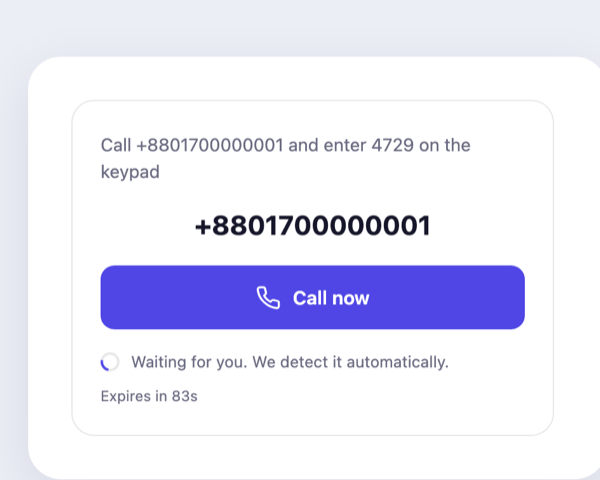
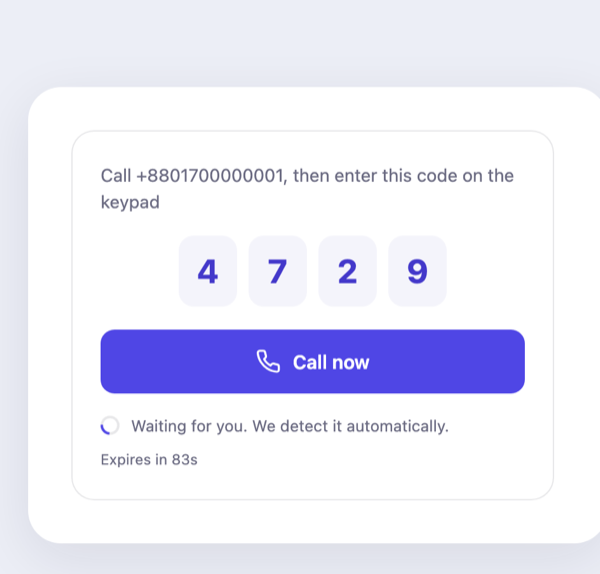
Widget: show the DTMF code in big digits; sharper screenshots (#36)
The DTMF instruction buried the code in a sentence and showed the phone
number big. Now it mirrors the SMS state: the code renders as large digit
chips with "Call <number>, then enter this code on the keypad" and a Call now
button — so the thing the user types is the hero, and the call button is the
clear next tap. Applied across all three front ends (web widget, React,
Flutter) so they stay consistent.

Also re-export the Android pairing/connected screenshots at full resolution
(they had been downscaled to 216px wide and looked blurry).

diff --git a/sdk-client-flutter/lib/src/widget.dart b/sdk-client-flutter/lib/src/widget.dart
@@ -159,9 +159,13 @@ class _CallToVerifyState extends State<CallToVerify> {
 
   Widget _instr(Instructions i) {
     final children = <Widget>[];
-    if (i.channel == 'sms') {
+    if (i.channel == 'sms' || i.channel == 'dtmf') {
       children.addAll([
-        Text('Send the code below to ${i.number}', style: const TextStyle(color: _muted)),
+        Text(
+            i.channel == 'sms'
+                ? 'Send the code below to ${i.number}'
+                : 'Call ${i.number}, then enter this code on the keypad',
+            style: const TextStyle(color: _muted)),
         const SizedBox(height: 14),
         Row(
           mainAxisAlignment: MainAxisAlignment.center,
@@ -180,7 +184,7 @@ class _CallToVerifyState extends State<CallToVerify> {
       ]);
     } else {
       children.addAll([
-        Text(i.channel == 'call' ? 'Give a quick missed call to' : 'Call and enter the code', style: const TextStyle(color: _muted)),
+        const Text('Give a quick missed call to', style: TextStyle(color: _muted)),
         const SizedBox(height: 6),
         Text(i.number, textAlign: TextAlign.center, style: const TextStyle(fontSize: 21, fontWeight: FontWeight.w700)),
       ]);

diff --git a/sdk-client-react/src/CallToVerify.tsx b/sdk-client-react/src/CallToVerify.tsx
@@ -214,8 +214,14 @@ function Instr(props: {
   }
   return (
     <>
-      <p className="ctv-action">{L.dtmfAction(instr.number, instr.code ?? "")}</p>
-      <p className="ctv-num">{instr.number}</p>
+      <p className="ctv-action">{L.dtmfAction(instr.number)}</p>
+      <div className="ctv-code">
+        {(instr.code ?? "").split("").map((d, i) => (
+          <span key={i} className="ctv-digit">
+            {d}
+          </span>
+        ))}
+      </div>
       <a className="ctv-btn" href={instr.deepLink}>
         <IconCall />
         {L.dtmfButton}

diff --git a/widget-web/src/index.ts b/widget-web/src/index.ts
@@ -167,8 +167,9 @@ function renderInstructions(root: HTMLElement, i: Instructions, L: Labels, canSw
       <div class="ctv-trust">${ICONS.shield}${escapeHtml(L.callTrust)}</div>
       ${waiting}`;
   } else {
-    root.innerHTML = `<p class="ctv-action">${escapeHtml(L.dtmfAction(i.number, i.code ?? ""))}</p>
-      <p class="ctv-num">${escapeHtml(i.number)}</p>
+    const digits = (i.code ?? "").split("").map((d) => `<span class="ctv-digit">${escapeHtml(d)}</span>`).join("");
+    root.innerHTML = `<p class="ctv-action">${escapeHtml(L.dtmfAction(i.number))}</p>
+      <div class="ctv-code">${digits}</div>
       <a class="ctv-btn" href="${escapeAttr(i.deepLink)}">${ICONS.call}${escapeHtml(L.dtmfButton)}</a>
       ${waiting}`;
   }

diff --git a/sdk-client-react/src/i18n.ts b/sdk-client-react/src/i18n.ts
@@ -17,7 +17,7 @@ export interface Labels {
   callStep3: string;
   callTrust: string;
   callButton: string;
-  dtmfAction: (number: string, code: string) => string;
+  dtmfAction: (number: string) => string;
   dtmfButton: string;
   waiting: string;
   expiresIn: (seconds: number) => string;
@@ -48,7 +48,7 @@ export const defaultLabels: Labels = {
   callStep3: "Hang up. Done.",
   callTrust: "We only see your number — we don't pick up.",
   callButton: "Call now",
-  dtmfAction: (number, code) => `Call ${number} and enter ${code} on the keypad`,
+  dtmfAction: (number) => `Call ${number}, then enter this code on the keypad`,
   dtmfButton: "Call now",
   waiting: "Waiting for you. We detect it automatically.",
   expiresIn: (s) => `Expires in ${s}s`,

diff --git a/widget-web/src/i18n.ts b/widget-web/src/i18n.ts
@@ -18,7 +18,7 @@ export interface Labels {
   callStep3: string;
   callTrust: string;
   callButton: string;
-  dtmfAction: (number: string, code: string) => string;
+  dtmfAction: (number: string) => string;
   dtmfButton: string;
   waiting: string;
   expiresIn: (seconds: number) => string;
@@ -49,7 +49,7 @@ export const defaultLabels: Labels = {
   callStep3: "Hang up. Done.",
   callTrust: "We only see your number — we don't pick up.",
   callButton: "Call now",
-  dtmfAction: (number, code) => `Call ${number} and enter ${code} on the keypad`,
+  dtmfAction: (number) => `Call ${number}, then enter this code on the keypad`,
   dtmfButton: "Call now",
   waiting: "Waiting for you. We detect it automatically.",
   expiresIn: (s) => `Expires in ${s}s`,